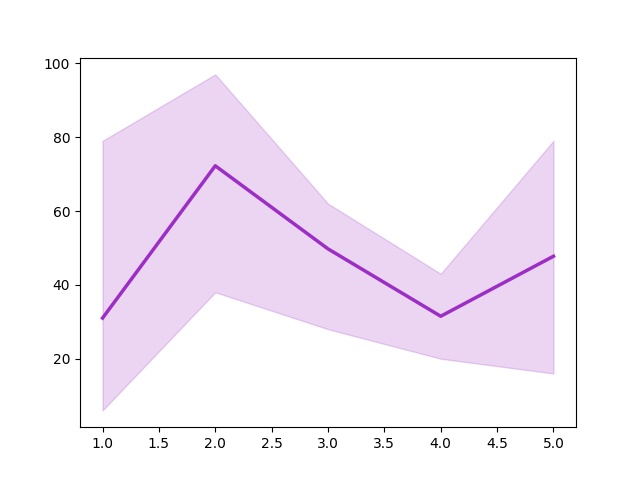
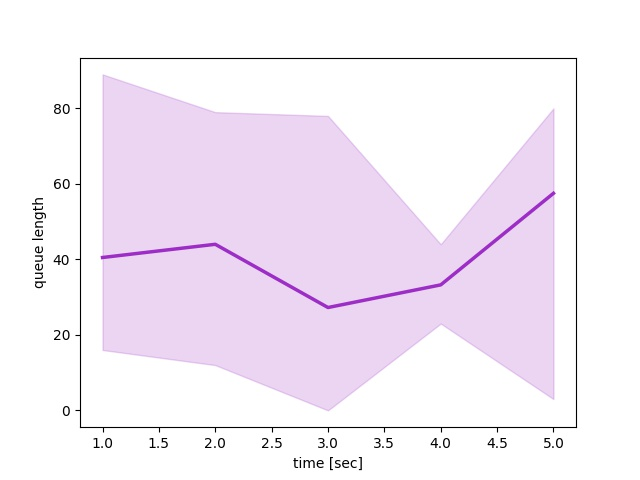
Added x and y lables to plots (need to re-run tho)

diff --git a/LogAnalyzer.py b/LogAnalyzer.py
@@ -42,11 +42,15 @@ class LogAnalyzer:
         ts = np.linspace(0, self.dt * self.sim_len, self.sim_len)
         plt.fill_between(ts, min_queue_lens, max_queue_lens)
         plt.plot(ts, mean_queue_lens)
+        plt.xlabel("time [sec]")
+        plt.ylabel("queue length")
         plt.savefig(os.path.join(self.res_dir, "queue_lens"))
         plt.close('all')
 
         plt.fill_between(ts, min_users_delays, max_users_delays)
         plt.plot(ts, mean_users_delays)
+        plt.xlabel("time [sec]")
+        plt.ylabel("user delays")
         plt.savefig(os.path.join(self.res_dir, "users_delays"))
         plt.close('all')
 
@@ -167,4 +171,5 @@ if __name__ == '__main__':
                      a_max, alpha=0.2, color=CB91_Purple)
     plt.plot([1, 2, 3, 4, 5],
              a_mean, color=CB91_Purple, lw=2.5)
+
     plt.savefig("./test1.jpg")
